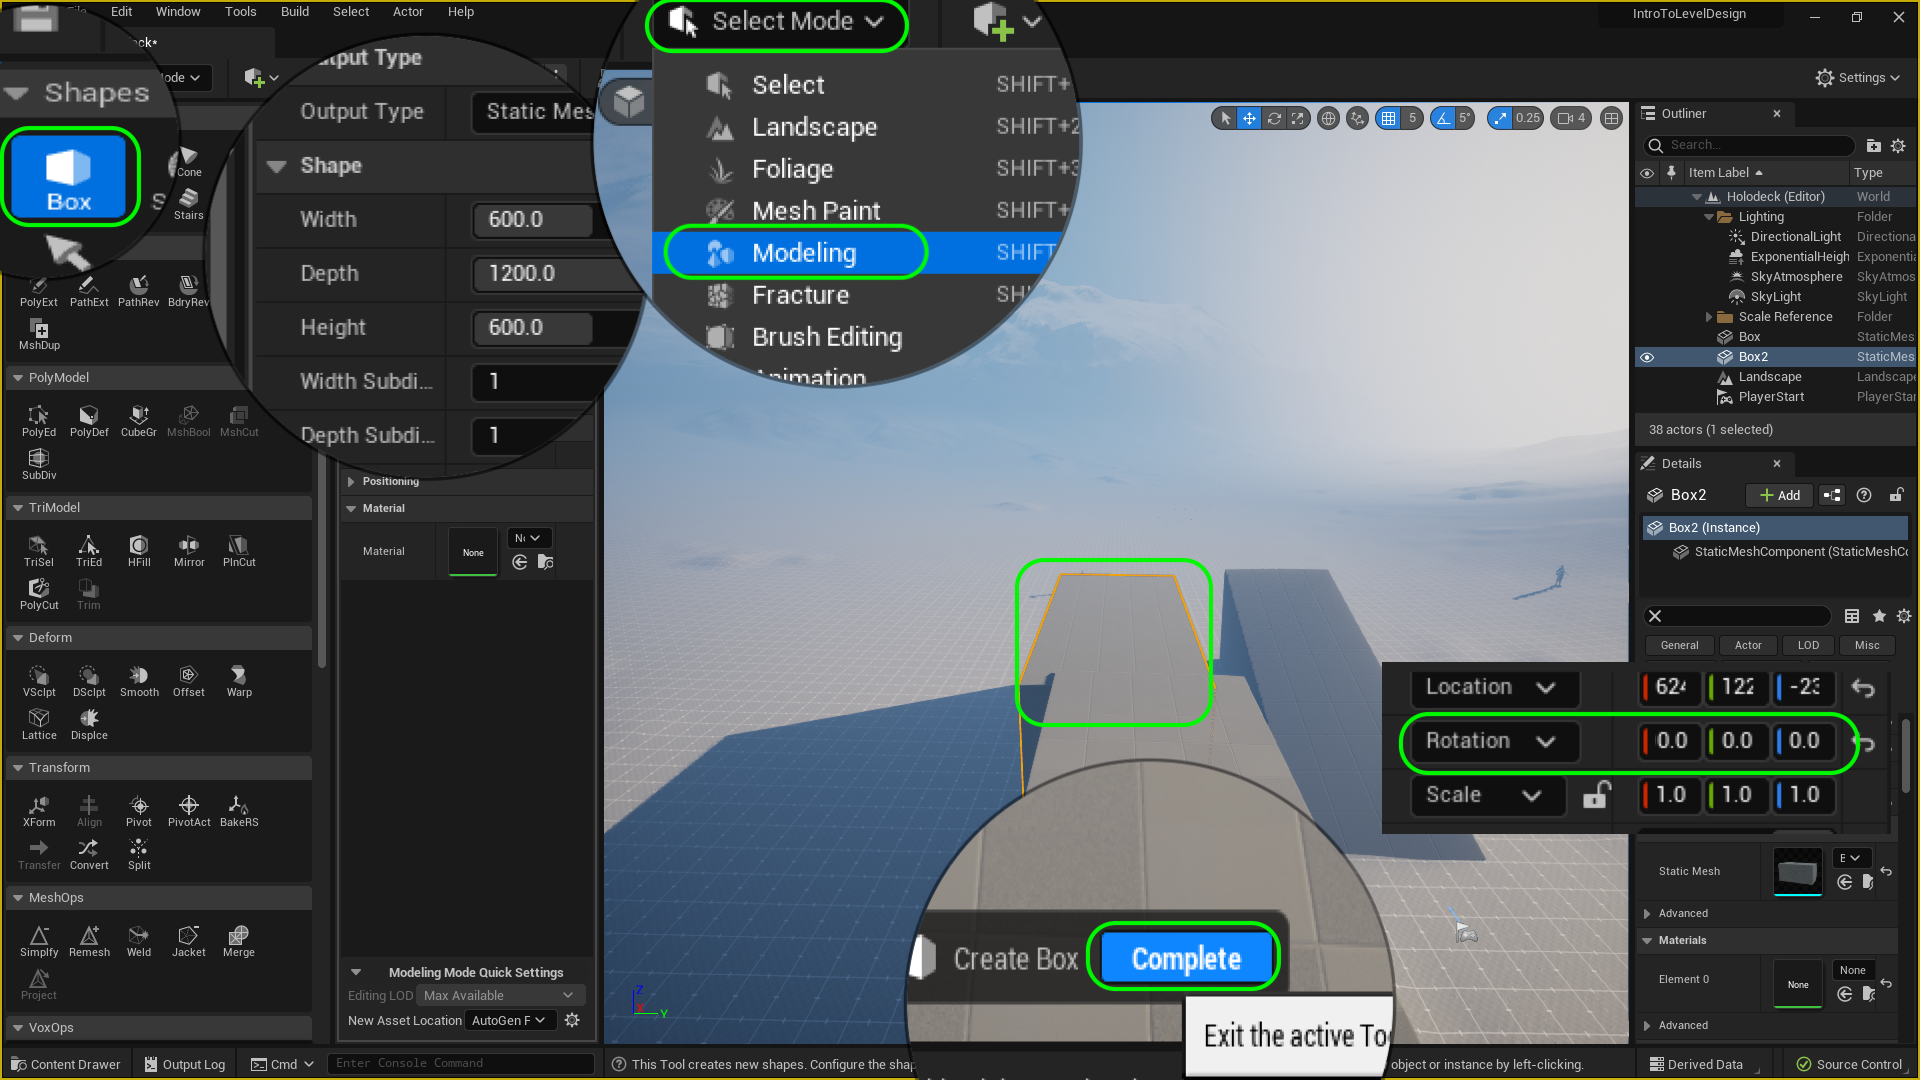
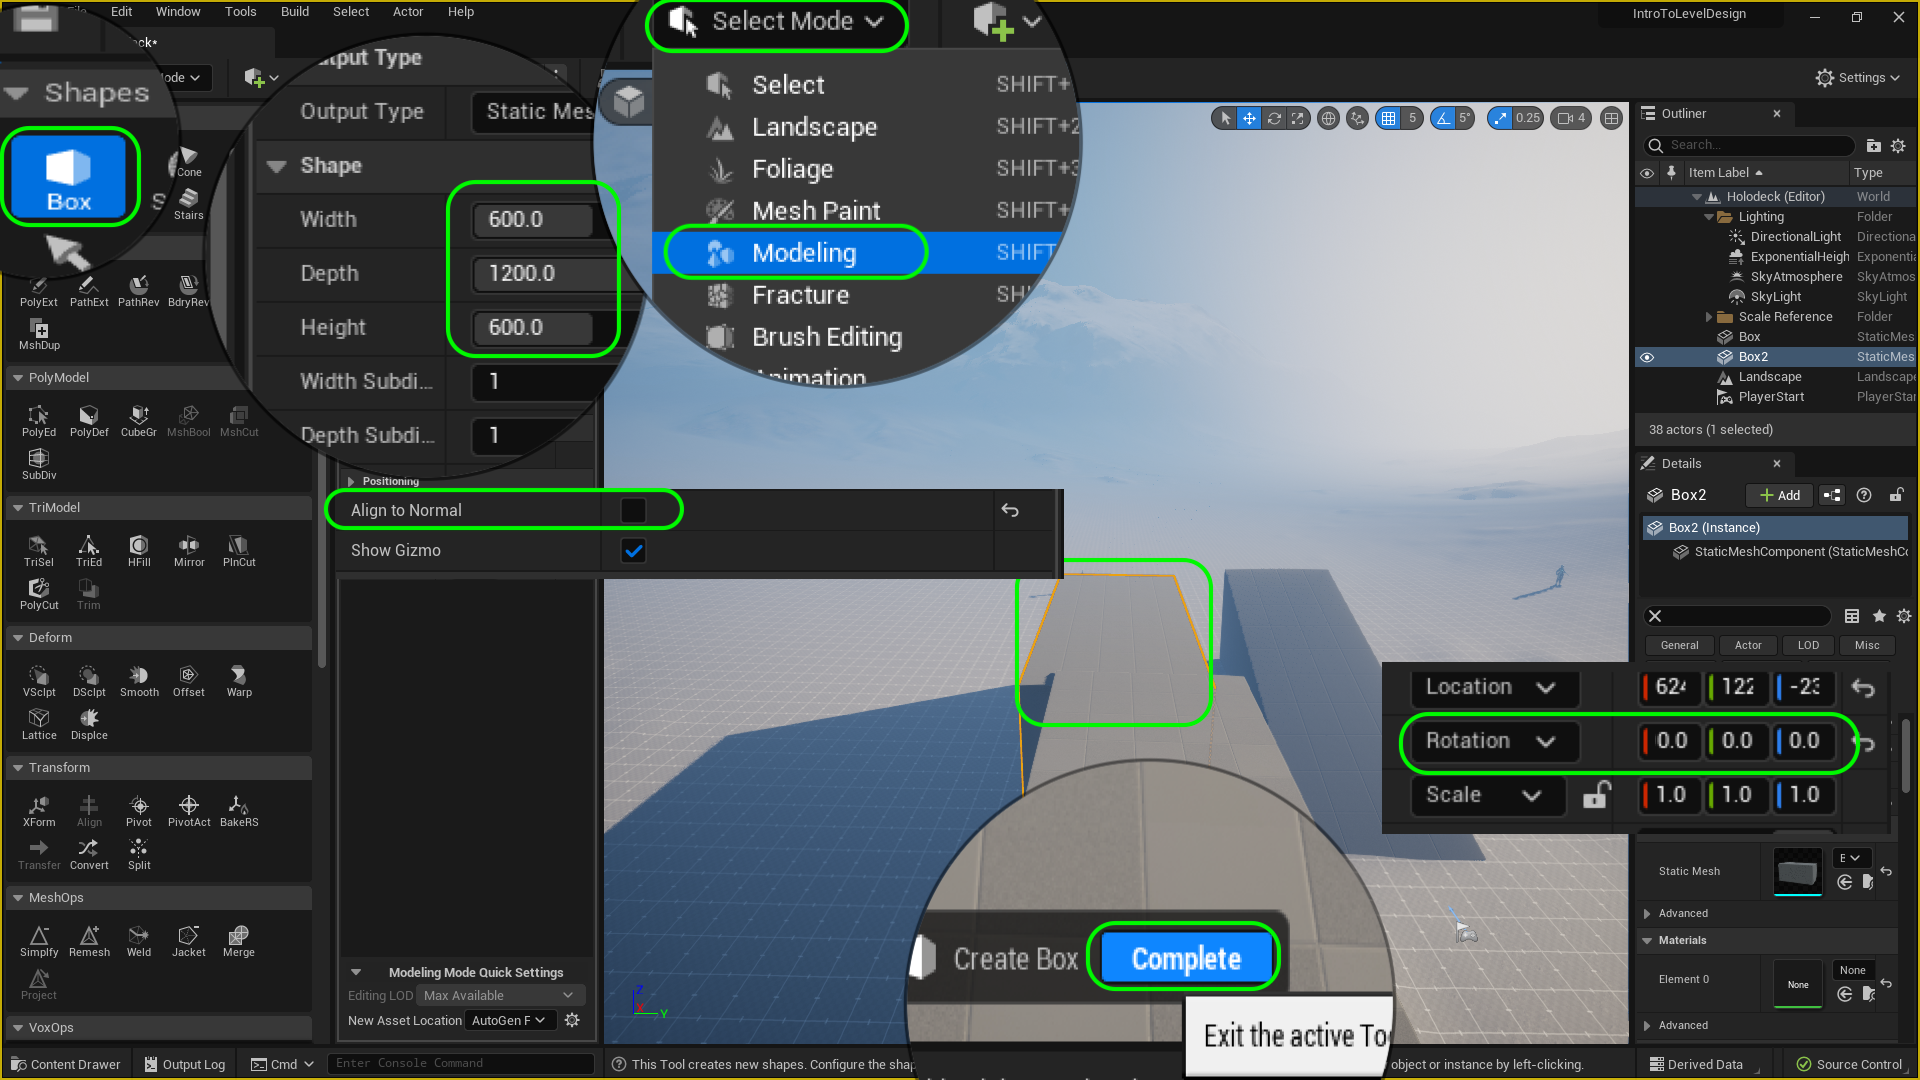
Update to Unreal 5.2

Changed region(s): [[0.1562, 0.4278, 0.5625, 0.55], [0.2188, 0.3056, 0.3125, 0.3361], [0.25, 0.1528, 0.3125, 0.1833]]

diff --git a/ramp/README.md b/ramp/README.md
@@ -114,7 +114,7 @@ https://user-images.githubusercontent.com/5504953/178083401-ec85ae61-5423-4f0a-a
 
 ##### `Step 12.`\|`SUU&G`| :large_blue_diamond: :small_blue_diamond: :small_blue_diamond: 
 
-Now lets create a second ramp that is a `45%` slope.  We will go back to **Modeling Mode** and select a **Cube** that is  `600`cm in **Width** and **Height** and `1200`cm in **Depth**. Now the game tries to place the object to the best of its abilities and often rotates it.  It is **VERY IMPORTANT** to reset the **Rotation** so that is it `0`, `0`, `0` on **X**, **Y** and **Z**.
+Now lets create a second ramp that is a `45%` slope.  We will go back to **Modeling Mode** and select a **Cube** that is  `600`cm in **Width** and **Height** and `1200`cm in **Depth**. Now the game tries to place the object to the best of its abilities and often rotates it.  It is important to have **Align to Normal** set to `false`.
 
 ![steep ramp create of 600 x 600 x 1200 creatinga  45% ramp](images/steeperRampCreate.png)
 
